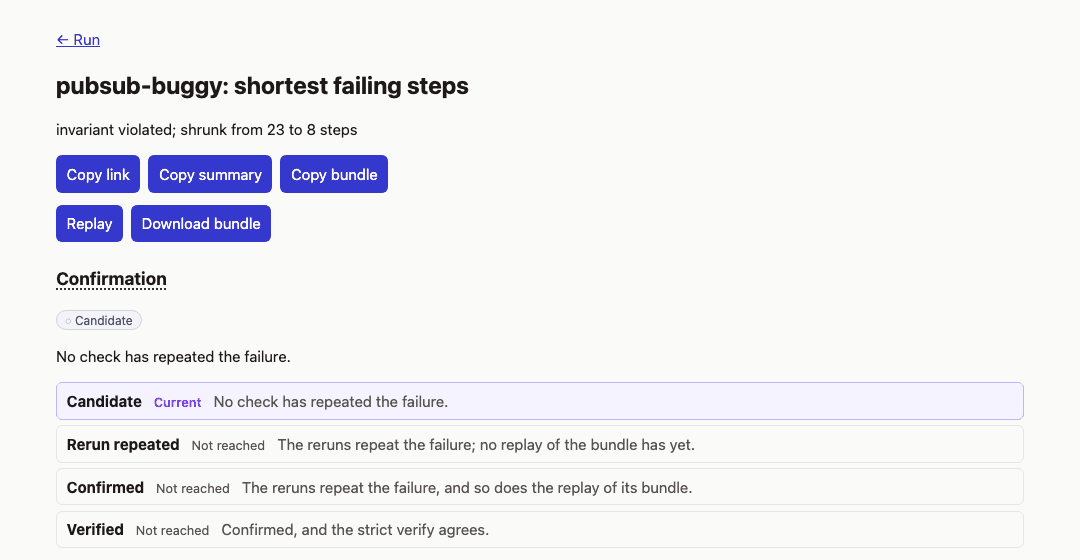
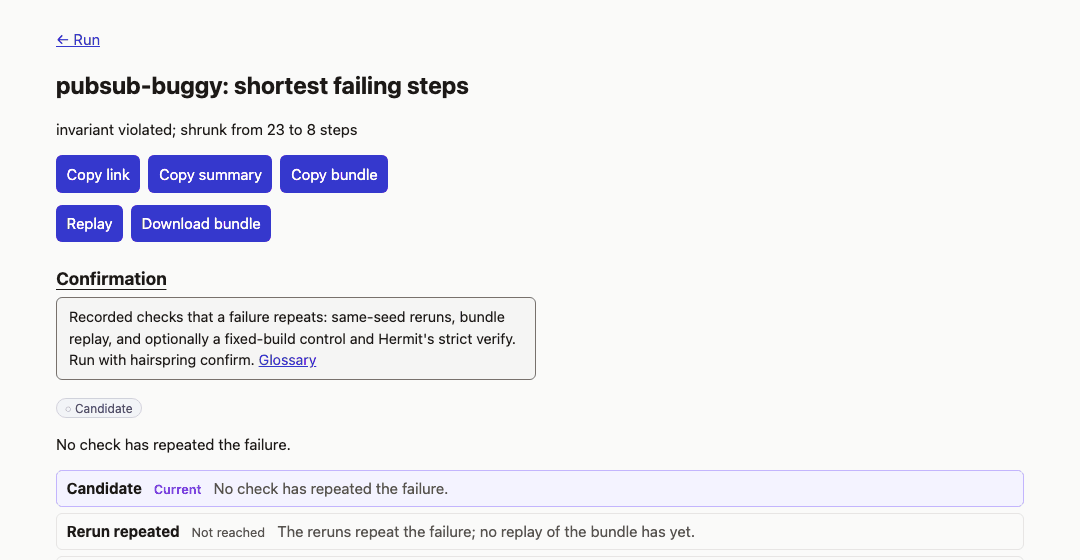
docs: fix review findings in the web UI tour
The term popover picture now shows the popover (the capture script no longer blurs the focused term before the
shot). The runs-list alt text describes the rows correctly, the theme switch picture is used, the README read-token
sentence says worker ids are hidden, a Load more caveat is added, and the capture script refuses a non-empty scratch
directory it did not make.

diff --git a/docs/quickstart.md b/docs/quickstart.md
@@ -155,6 +155,10 @@ Failures, Targets and Workers. On a phone it becomes a row of links under the to
 *The same page in the dark theme. The Colour theme switch (System, Light, Dark) is at the top right; the choice is
 saved in your browser only.*
 
+![The top bar in the dark theme: the Hairspring name and organisation, the search box, and the System, Light and Dark buttons with Dark pressed.](images/ui/theme-switch-dark.png)
+
+*The top bar close up, dark theme, with Dark chosen.*
+
 ### 2. Start a run, or a sweep
 
 ![The Runs page: a form with a Target menu set to pubsub-atomic, Run type set to "Measure how often (sweep)", a Trials box holding 5, the budget the server will enforce, then the filter bar and the list of runs.](images/ui/runs-start-form-light.png)
@@ -174,10 +178,10 @@ and opens the run's page once the server accepts it.
 *Filters are kept in the address (here `/runs?state=failed`), so a filtered list can be bookmarked. Runs: state, run
 type and target. Failures: run id, property id prefix and state.*
 
-The list refreshes by itself every few seconds, and **Load more** adds older rows. A sweep started from the form appears
+The list refreshes by itself every few seconds, and **Load more** adds older rows (Load more and the 100,000-row limit were checked in the web tests, not captured here). A sweep started from the form appears
 in the list, and its page opens as soon as the server accepts it:
 
-![The Runs page after a sweep started from the form: the newest run is a lock-lease run that failed, above a finished pubsub-atomic sweep of 10 trials and three failed searches.](images/ui/runs-list-light.png)
+![The Runs page after a sweep started from the form: the newest run is a lock-lease run that failed, above a finished pubsub-atomic sweep of 10 trials and, below it, two failed searches and a failed sweep of pubsub-buggy.](images/ui/runs-list-light.png)
 
 *The list after a sweep was started from the form. Simulation data.*
 

diff --git a/README.md b/README.md
@@ -179,7 +179,7 @@ to 0, while the CLI refuses such a sweep. Without a mode a run is a search, as b
 
 `hairspring serve` serves the web UI at `/` on the same address as the API. With no tokens configured it accepts only
 loopback connections and opens straight away. With tokens configured (see [Run it for a team](#run-it-for-a-team)) it
-asks for one and keeps it for that browser tab only. A `read` token can look at everything; starting a run needs `run`.
+asks for one and keeps it for that browser tab only. A `read` token can look at everything except worker ids; starting a run needs `run`.
 
 <p align="center"><picture>
   <source media="(prefers-color-scheme: dark)" srcset="docs/images/ui/overview-dark.png">
@@ -213,8 +213,9 @@ A quick tour (the [quickstart](docs/quickstart.md#tour-of-the-web-ui) has the sa
   <img src="docs/images/ui/run-properties-light.png" alt="A run page: pubsub-buggy, Failed, with a panel listing what the run shows and does not show, four tabs, an empty property table and the coverage section saying every count stayed at zero" width="760">
 </picture></p>
 
-*A run page (light and dark themes both exist; GitHub shows the one that matches your setting). Simulation targets declare no named properties, so the property table is empty and the
-coverage chart says so; a `process` target with the guest SDK fills both.*
+*A run page (light and dark themes both exist; GitHub shows the one that matches your setting). Simulation
+targets declare no named properties, so the property table is empty and the coverage chart says so; a `process`
+target with the guest SDK fills both.*
 
 <p align="center"><img src="docs/images/ui/failures-list-light.png" alt="The Failures page filtered to the Candidate state, listing three failures with target, state, message, run, original and shortest step counts" width="760"></p>
 
